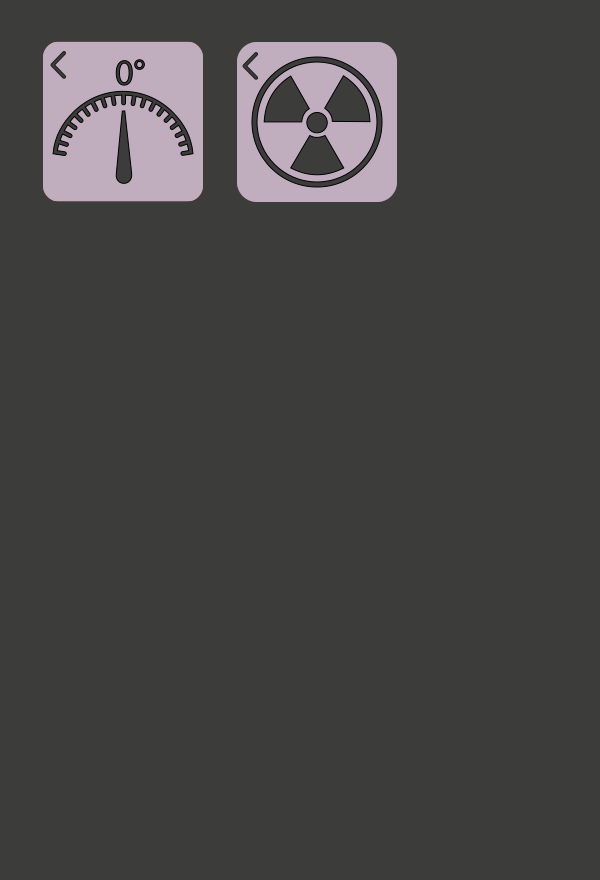
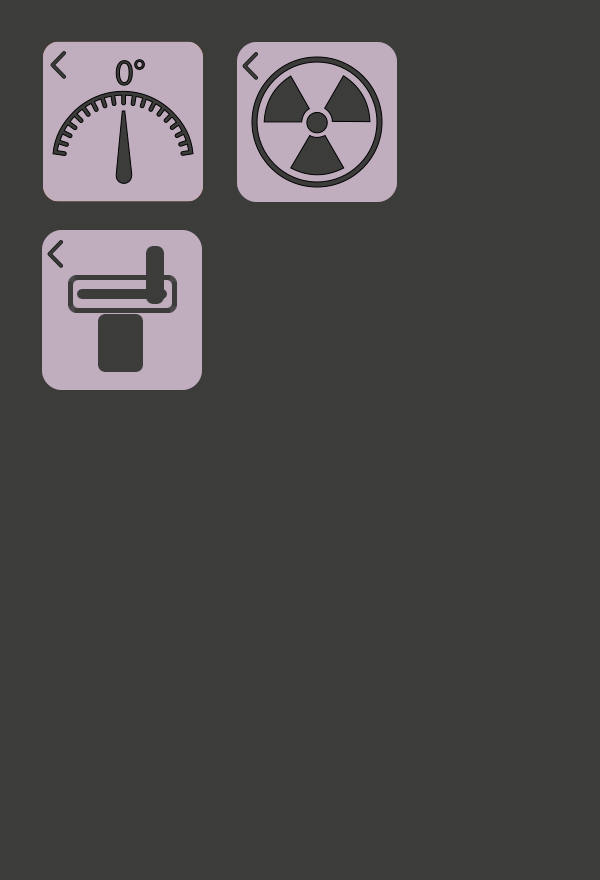
Aggiunto protocollo Biopsia con comando service per far partire il test

Changed region(s): [[0.06, 0.2455, 0.36, 0.4602]]

diff --git a/PROJECT_MCPU/MCPU/MCPU_MASTER/DEVICES/PCB325.h b/PROJECT_MCPU/MCPU/MCPU_MASTER/DEVICES/PCB325.h
@@ -19,15 +19,172 @@ public:
 	}
 	static PCB325^ device = gcnew PCB325();
 
-	
+	/// <summary>
+	/// This class implement the protocol data structure as described in the protocol specification.
+	/// </summary>
+	ref class ProtocolStructure {
+	public:
 
+
+		ref class StatusRegister {
+		public:
+
+			enum class register_index {
+				MODE_REGISTER = 0, 
+				POSITION_REGISTER,
+				NUM_REGISTERS
+			};
+
+			enum class working_mode {
+				DISABLE_MODE = 0,
+				CALIB_MODE,
+				COMMAND_MODE,
+				SERVICE_MODE
+
+			};
+
+			
+
+			static bool decodeModeRegister(Register^ sys) {
+				if (sys == nullptr) return false;
+
+				mode = (working_mode) sys->d0;
+				general_enable = (sys->d0 & 0x1);
+				keyboard_enable = (sys->d0 & 0x2);
+				enable_feedback = (sys->d0 & 0x4);
+				disable_needle_feedback = (sys->d0 & 0x8);
+				return true;
+			}
+
+			Register^ encodeModeRegister(void) {
+
+				// Creates a register with all bytes set to 0
+				CanDeviceProtocol::Register^ sys = gcnew CanDeviceProtocol::Register;
+
+				
+				sys->d0 = (unsigned char)mode;
+				
+				sys->d1 = 0;
+				if (general_enable) sys->d1 |= 0x1;
+				if (keyboard_enable) sys->d1 |= 0x2;
+				if (enable_feedback) sys->d1 |= 0x4;
+				if (disable_needle_feedback) sys->d1 |= 0x8;
+
+				sys->d2 = 0;
+				sys->d3 = 0;
+
+				// Returns the formatted register
+				return sys;
+			}
+
+			static bool decodePositionRegister(Register^ sys) {
+				if (sys == nullptr) return false;
+
+				X = (int) sys->d0 + 256 * (int) sys->d1;
+				Y = (int)sys->d2;
+				Z = (int)sys->d3;
+				return true;
+			}
+
+			Register^ encodePositionRegister(void) {
+
+				// Creates a register with all bytes set to 0
+				CanDeviceProtocol::Register^ sys = gcnew CanDeviceProtocol::Register;
+
+
+				sys->d0 = (unsigned char) (X & 0xFF);
+				sys->d1 = (unsigned char)((X>>8) & 0xFF);
+				sys->d2 = (unsigned char)(Y);
+				sys->d3 = (unsigned char)(Z);
+
+				// Returns the formatted register
+				return sys;
+			}
+
+			static working_mode mode = working_mode::DISABLE_MODE;
+			static bool general_enable = false;
+			static bool keyboard_enable = false;
+			static bool enable_feedback = false;
+			static bool disable_needle_feedback = false;
+			static int X = 0;
+			static int Y = 0;
+			static int Z = 0;
+		};
+
+
+		ref class DataRegister {
+		public:
+
+			enum class register_index {
+				NUM_REGISTERS = 0,
+			};
+
+		};
+
+		ref class ParameterRegister {
+		public:
+
+			enum class register_index {
+				NUM_REGISTERS = 0,
+			};
+
+			
+		};
+
+		ref class Commands {
+		public:
+			enum class command_index {
+				CMD_ABORT = 0,          
+				CMD_DISABLE_MODE,
+				CMD_COMMAND_MODE,
+				CMD_SERVICE_MODE,
+				CMD_CALIB_MODE,
+				CMD_MOVE_XYZ,                
+				CMD_SERVICE_TEST_CYCLE      
+			};
+
+			CanDeviceCommand^ encodeDisableModeCommand(void) {				
+				return gcnew CanDeviceCommand((unsigned char)command_index::CMD_DISABLE_MODE, 0, 0, 0, 0);
+			}
+			CanDeviceCommand^ encodeCommandModeCommand(void) {
+				return gcnew CanDeviceCommand((unsigned char)command_index::CMD_COMMAND_MODE, 0, 0, 0, 0);
+			}
+			CanDeviceCommand^ encodeServiceModeCommand(void) {
+				return gcnew CanDeviceCommand((unsigned char)command_index::CMD_SERVICE_MODE, 0, 0, 0, 0);
+			}
+			CanDeviceCommand^ encodeCalibModeCommand(void) {
+				return gcnew CanDeviceCommand((unsigned char)command_index::CMD_CALIB_MODE, 0, 0, 0, 0);
+			}
+			CanDeviceCommand^ encodeTestCycleModeCommand(void) {
+				return gcnew CanDeviceCommand((unsigned char)command_index::CMD_SERVICE_TEST_CYCLE, 0, 0, 0, 0);
+			}
+			CanDeviceCommand^ encodeMoveXYZModeCommand(int X, int Y, int Z) {
+				System::Byte d0 = (System::Byte)(X & 0xFF);
+				System::Byte d1 = (System::Byte)((X>>8) & 0xFF);
+				System::Byte d2 = (System::Byte)(Y);
+				System::Byte d3 = (System::Byte)(Z);
+				return gcnew CanDeviceCommand((unsigned char)command_index::CMD_MOVE_XYZ, d0, d1, d2, d3);
+			}
+
+		};
+
+		static StatusRegister status_register;
+		static DataRegister data_register;
+		static ParameterRegister parameter_register;
+		static Commands command;
+	};
+
+
+	static bool isBiopsyConnected(void) { return biopsy_connected; }
+	static bool activateCycleTest(void);
 
 protected: 	
 	void runningLoop(void) override;
 	bool configurationLoop(void) override;//!< This is the Base Class override function to handle the device configuration
 
 private:
-	
-
+	static ProtocolStructure protocol; //!< This is the structure with the Status register info
+	static bool biopsy_connected = false;
+	static bool service_cycle_test = false;
 };
 

diff --git a/PROJECT_MCPU/MCPU/MCPU_MASTER/WINDOWS/SERVICE/ServiceForm.h b/PROJECT_MCPU/MCPU/MCPU_MASTER/WINDOWS/SERVICE/ServiceForm.h
@@ -51,6 +51,7 @@ protected:
 Object^ pConfirmation; // Used in the case a confirmation should needed
 
 private: System::Windows::Forms::PictureBox^ exposureTool;
+private: System::Windows::Forms::PictureBox^ biopsyTool;
 
 
 public:System::Timers::Timer^ serviceTimer;
@@ -138,6 +139,7 @@ private:
 		this->zeroSetting = (gcnew System::Windows::Forms::PictureBox());
 		this->serviceCanc = (gcnew System::Windows::Forms::PictureBox());
 		this->serviceMenuTitle = (gcnew System::Windows::Forms::Label());
+		this->biopsyTool = (gcnew System::Windows::Forms::PictureBox());
 		(cli::safe_cast<System::ComponentModel::ISupportInitialize^>(this->rotationTool))->BeginInit();
 		(cli::safe_cast<System::ComponentModel::ISupportInitialize^>(this->systemSetup))->BeginInit();
 		(cli::safe_cast<System::ComponentModel::ISupportInitialize^>(this->systemCalibration))->BeginInit();
@@ -146,6 +148,7 @@ private:
 		(cli::safe_cast<System::ComponentModel::ISupportInitialize^>(this->exposureTool))->BeginInit();
 		(cli::safe_cast<System::ComponentModel::ISupportInitialize^>(this->zeroSetting))->BeginInit();
 		(cli::safe_cast<System::ComponentModel::ISupportInitialize^>(this->serviceCanc))->BeginInit();
+		(cli::safe_cast<System::ComponentModel::ISupportInitialize^>(this->biopsyTool))->BeginInit();
 		this->SuspendLayout();
 		// 
 		// rotationTool
@@ -227,16 +230,17 @@ private:
 		this->servicePanel->Controls->Add(this->rotationTool);
 		this->servicePanel->Controls->Add(this->systemSetup);
 		this->servicePanel->Controls->Add(this->systemCalibration);
-		this->servicePanel->Location = System::Drawing::Point(0, 50);
+		this->servicePanel->Location = System::Drawing::Point(1000, 50);
 		this->servicePanel->Name = L"servicePanel";
 		this->servicePanel->Size = System::Drawing::Size(600, 880);
 		this->servicePanel->TabIndex = 14;
 		// 
 		// calibPanel
 		// 
+		this->calibPanel->Controls->Add(this->biopsyTool);
 		this->calibPanel->Controls->Add(this->exposureTool);
 		this->calibPanel->Controls->Add(this->zeroSetting);
-		this->calibPanel->Location = System::Drawing::Point(1000, 50);
+		this->calibPanel->Location = System::Drawing::Point(0, 50);
 		this->calibPanel->Name = L"calibPanel";
 		this->calibPanel->Size = System::Drawing::Size(600, 880);
 		this->calibPanel->TabIndex = 15;
@@ -290,6 +294,18 @@ private:
 		this->serviceMenuTitle->Text = L"TITLE";
 		this->serviceMenuTitle->TextAlign = System::Drawing::ContentAlignment::MiddleCenter;
 		// 
+		// biopsyTool
+		// 
+		this->biopsyTool->BackColor = System::Drawing::Color::FromArgb(static_cast<System::Int32>(static_cast<System::Byte>(255)), static_cast<System::Int32>(static_cast<System::Byte>(128)),
+			static_cast<System::Int32>(static_cast<System::Byte>(0)));
+		this->biopsyTool->BackgroundImageLayout = System::Windows::Forms::ImageLayout::None;
+		this->biopsyTool->Location = System::Drawing::Point(40, 224);
+		this->biopsyTool->Name = L"biopsyTool";
+		this->biopsyTool->Size = System::Drawing::Size(165, 165);
+		this->biopsyTool->TabIndex = 3;
+		this->biopsyTool->TabStop = false;
+		this->biopsyTool->Click += gcnew System::EventHandler(this, &ServiceForm::biopsyTool_Click);
+		// 
 		// ServiceForm
 		// 
 		this->BackColor = System::Drawing::Color::FromArgb(static_cast<System::Int32>(static_cast<System::Byte>(60)), static_cast<System::Int32>(static_cast<System::Byte>(60)),
@@ -315,6 +331,7 @@ private:
 		(cli::safe_cast<System::ComponentModel::ISupportInitialize^>(this->exposureTool))->EndInit();
 		(cli::safe_cast<System::ComponentModel::ISupportInitialize^>(this->zeroSetting))->EndInit();
 		(cli::safe_cast<System::ComponentModel::ISupportInitialize^>(this->serviceCanc))->EndInit();
+		(cli::safe_cast<System::ComponentModel::ISupportInitialize^>(this->biopsyTool))->EndInit();
 		this->ResumeLayout(false);
 		this->PerformLayout();
 
@@ -333,7 +350,7 @@ private:
 	private: System::Void zeroSetting_Click(System::Object^ sender, System::EventArgs^ e);
 	private: System::Void exposureTool_Click(System::Object^ sender, System::EventArgs^ e);
 	private: System::Void systemRotation_Click(System::Object^ sender, System::EventArgs^ e);
-		
+	private: System::Void biopsyTool_Click(System::Object^ sender, System::EventArgs^ e);
 	
 };
 

diff --git a/PROJECT_MCPU/MCPU/MCPU_MASTER/DEVICES/PCB325.cpp b/PROJECT_MCPU/MCPU/MCPU_MASTER/DEVICES/PCB325.cpp
@@ -21,8 +21,38 @@ bool PCB325::configurationLoop(void) {
 
 
 void PCB325::runningLoop(void) {
+        
+    
+    if (!isCommunicationError()) {
+        biopsy_connected = true;
+        protocol.status_register.decodeModeRegister(readStatusRegister((unsigned char)ProtocolStructure::StatusRegister::register_index::MODE_REGISTER));
+        std::this_thread::sleep_for(std::chrono::milliseconds(100));
+        protocol.status_register.decodePositionRegister(readStatusRegister((unsigned char)ProtocolStructure::StatusRegister::register_index::POSITION_REGISTER));
+        std::this_thread::sleep_for(std::chrono::milliseconds(100));
+    }
+    else {
+        biopsy_connected = false;
+        // Waits the connection with the biopsy polling ones per second the mode register
+        protocol.status_register.decodeModeRegister(readStatusRegister((unsigned char)ProtocolStructure::StatusRegister::register_index::MODE_REGISTER));
+        std::this_thread::sleep_for(std::chrono::milliseconds(1000));
+    }    
+
+    if (service_cycle_test) {
+        if (protocol.status_register.mode != ProtocolStructure::StatusRegister::working_mode::SERVICE_MODE) {
+            commandNoWaitCompletion(protocol.command.encodeServiceModeCommand(), 30);
+            std::this_thread::sleep_for(std::chrono::milliseconds(100));
+            return;
+        }
+
+        commandNoWaitCompletion(protocol.command.encodeTestCycleModeCommand(), 30);
+        service_cycle_test = false;       
+    }
+
    
-    std::this_thread::sleep_for(std::chrono::milliseconds(1000));
     return;
 }
 
+bool PCB325::activateCycleTest(void) {
+    service_cycle_test = true;
+    return true;
+}

diff --git a/PROJECT_MCPU/MCPU/MCPU_MASTER/WINDOWS/SERVICE/ServiceForm.cpp b/PROJECT_MCPU/MCPU/MCPU_MASTER/WINDOWS/SERVICE/ServiceForm.cpp
@@ -8,6 +8,7 @@
 #include "ServiceExposureTool.h"
 #include "ServiceRotationTool.h"
 #include "ServiceZeroSettingTool.h"
+#include "PCB325.h"
 
 
 // Main Panel Definition
@@ -43,7 +44,7 @@ void ServiceForm::formInitialization(void) {
 	// Set of the Menu Buttons
 	zeroSetting->BackColor = Color::Transparent;
 	exposureTool->BackColor = Color::Transparent;
-
+	biopsyTool->BackColor = Color::Transparent;
 
 	serviceTimer = gcnew System::Timers::Timer(100);
 	serviceTimer->Elapsed += gcnew System::Timers::ElapsedEventHandler(this, &ServiceForm::onServiceTimeout);
@@ -194,4 +195,8 @@ System::Void  ServiceForm::systemRotation_Click(System::Object^ sender, System::
 }
 System::Void ServiceForm::zeroSetting_Click(System::Object^ sender, System::EventArgs^ e) {
 	ServiceZeroSettingTool::panel->dialog_open(this); // Opens as a Dialog the service Panel
+}
+
+System::Void ServiceForm::biopsyTool_Click(System::Object^ sender, System::EventArgs^ e) {
+	PCB325::activateCycleTest();
 }
